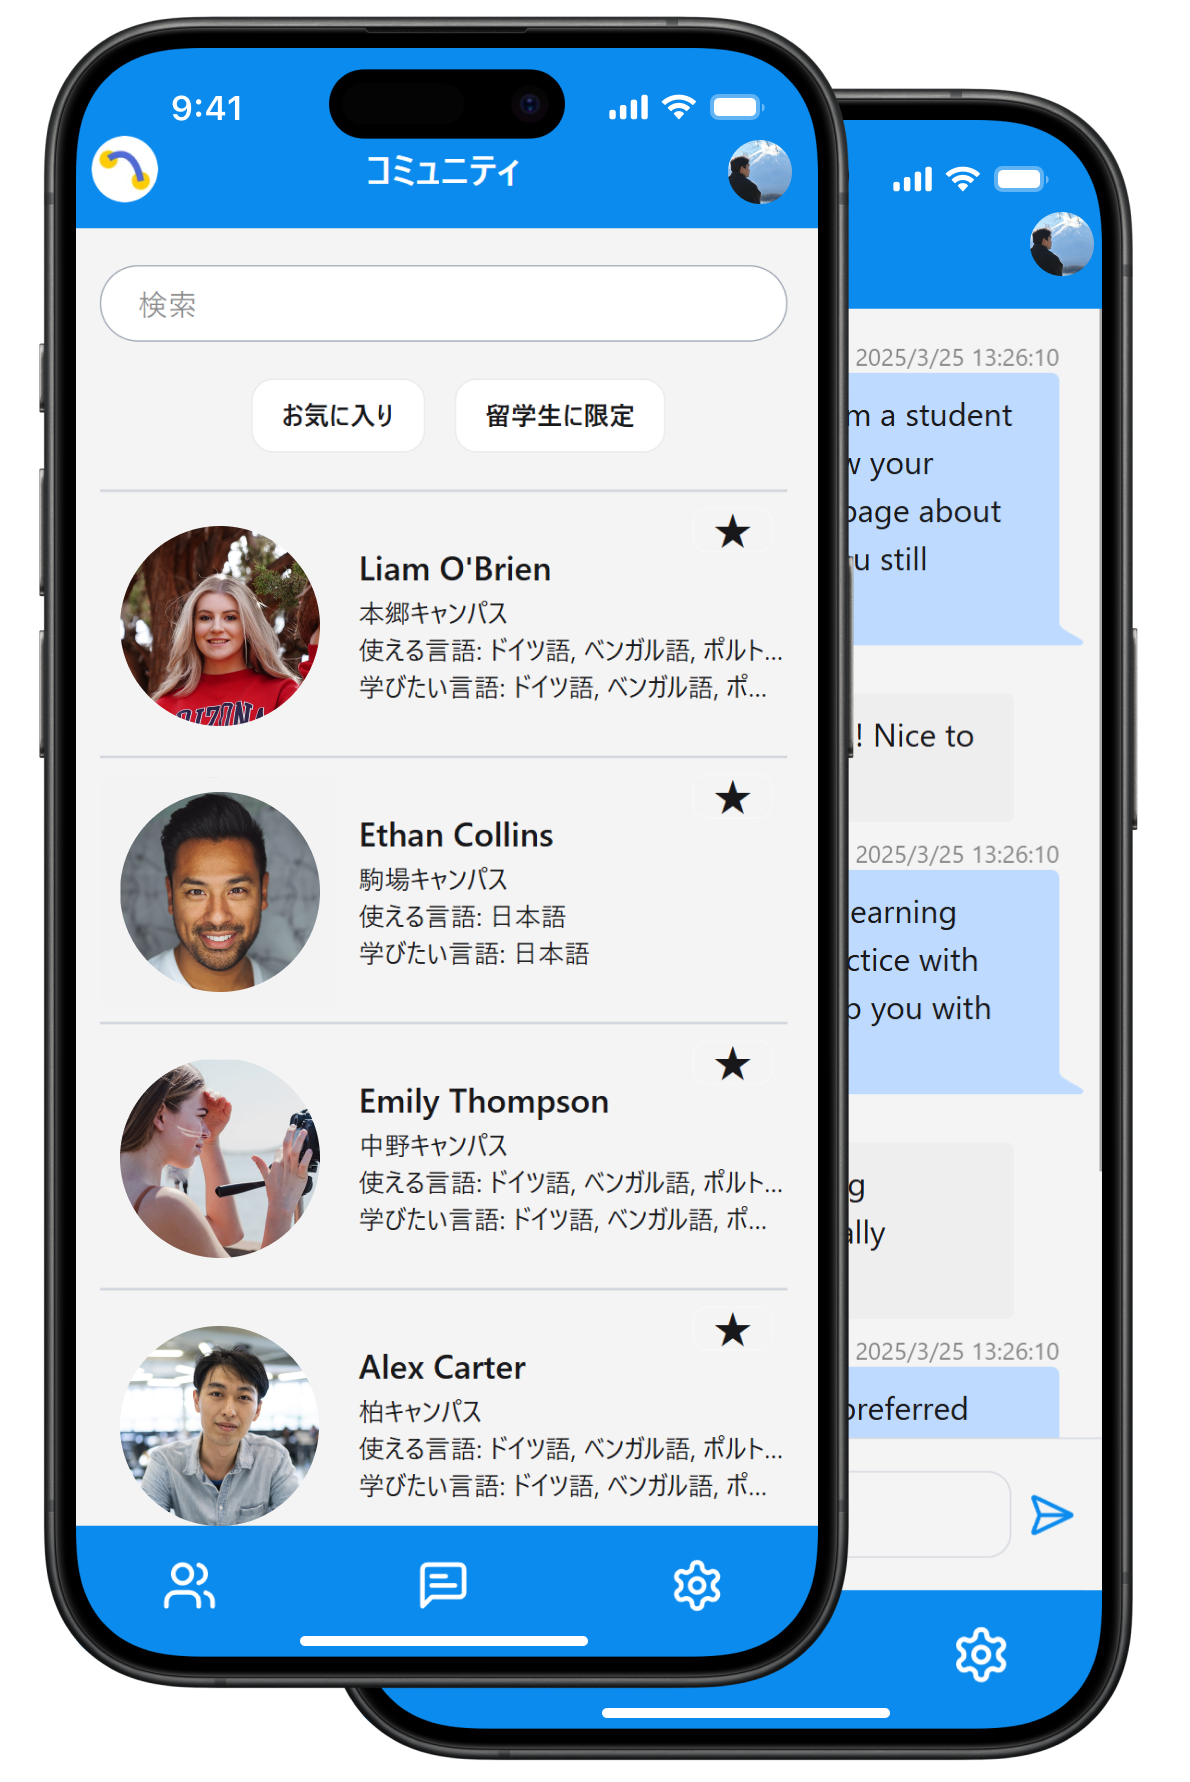
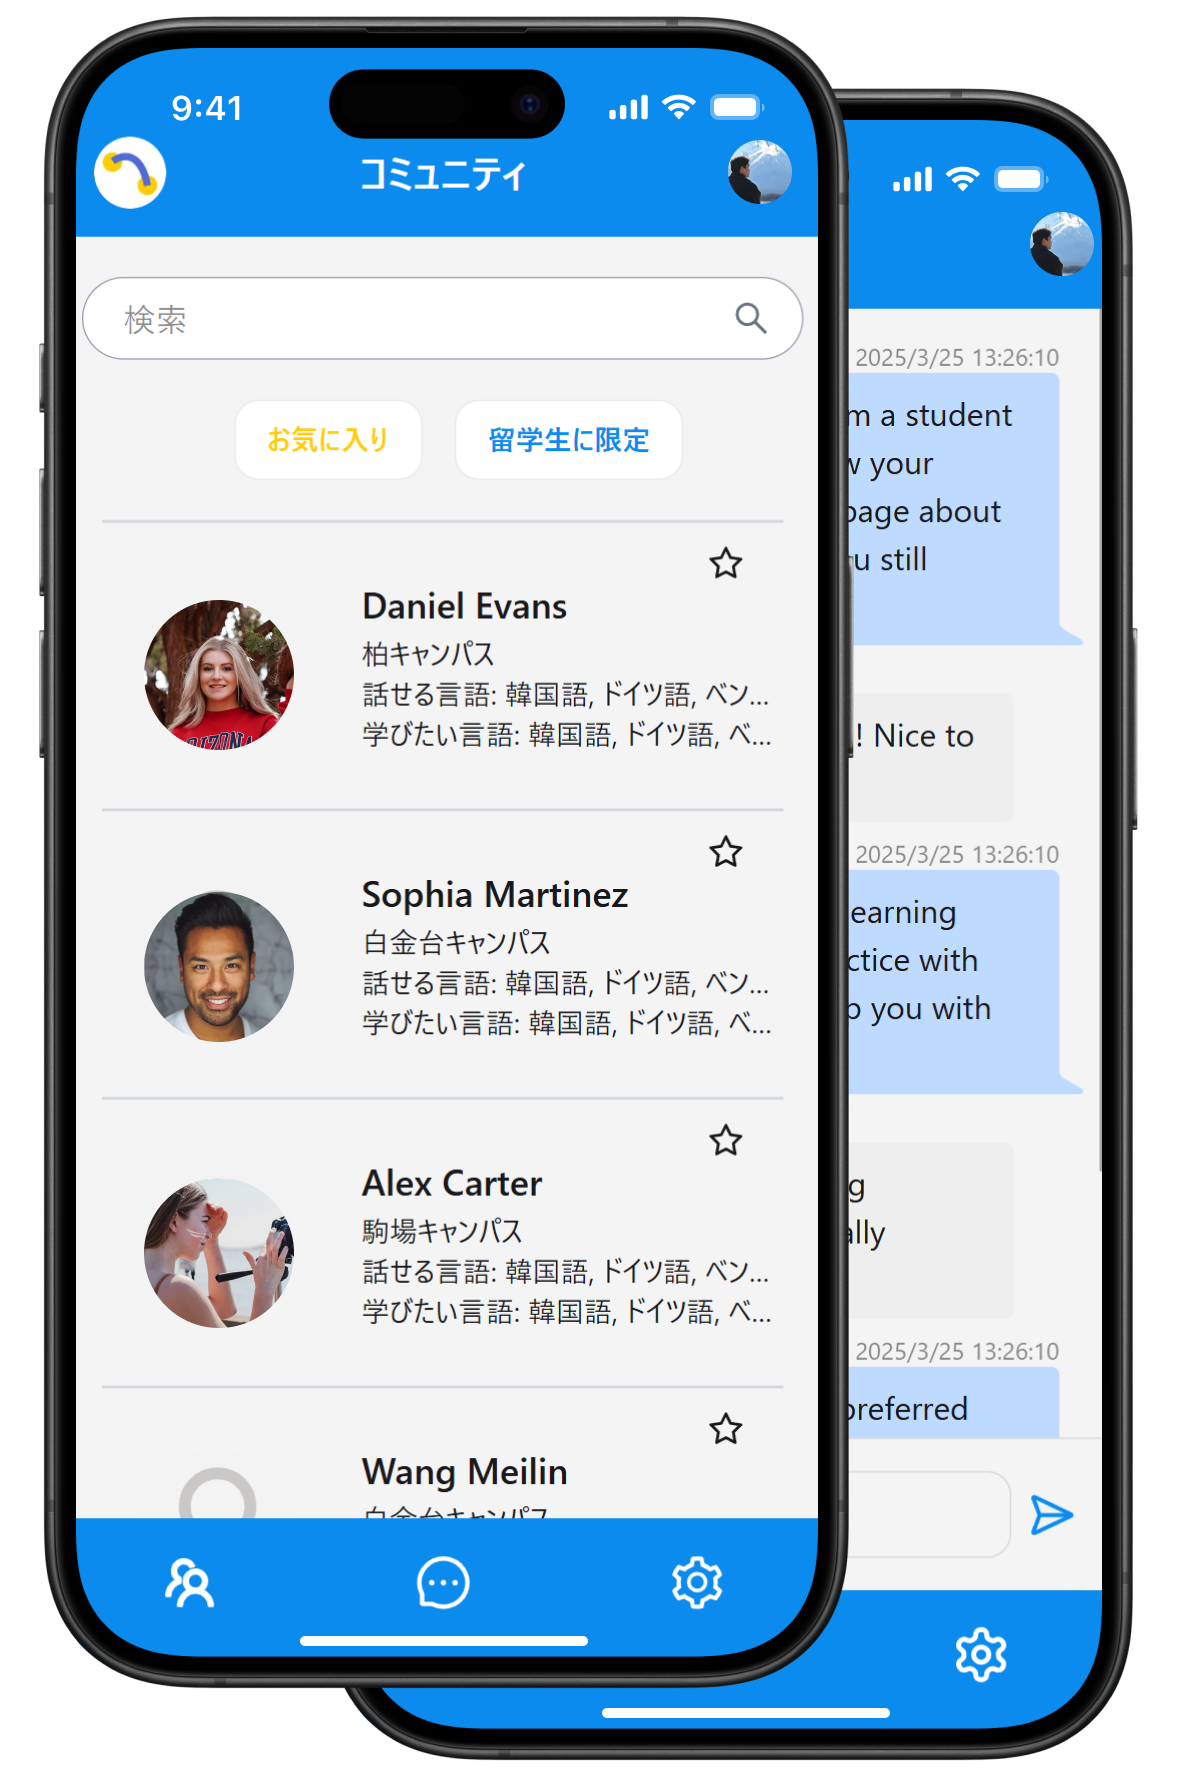
/ja向けの画像を差し替え、/en向けの画像を用意、切り替える

Changed region(s): [[0.0622, 0.216, 0.684, 0.9259], [0.0622, 0.0617, 0.684, 0.1852], [0.4042, 0.216, 0.5597, 0.2778]]

diff --git a/web/src/app/[locale]/page.tsx b/web/src/app/[locale]/page.tsx
@@ -5,14 +5,22 @@ import LanguageSwitcher from "@/components/LanguageSelectar";
 import { Link } from "@/i18n/navigation.ts";
 import { useTranslations } from "next-intl";
 import Image from "next/image";
+import { usePathname } from "next/navigation";
 
 export default function LandingPage() {
   const t = useTranslations();
+  const pathname = usePathname();
   return (
     <>
       <Header />
       <div className="mt-10 flex w-full flex-col-reverse justify-center xl:flex-row">
-        <Image src="/app_sample_ja.png" alt="app sample image" width={500} height={100} className="m-auto xl:m-0" />
+        <Image
+          src={pathname.startsWith("/ja") ? "/app_sample_ja.png" : "/app_sample_en.png"}
+          alt="app sample image"
+          width={500}
+          height={100}
+          className="m-auto xl:m-0"
+        />
         <div className="my-10 mr-5 flex flex-col items-center justify-center xl:my-0 xl:mr-20">
           <div className="flex flex-col items-start">
             <p className="-translate-x-5 xl:-translate-x-20 my-1 mt-5 bg-tBlue px-10 py-1 text-[min(10vw,48px)] text-white shadow-md xl:my-2 xl:mt-2 xl:py-2 xl:text-7xl xl:shadow-2xl">
